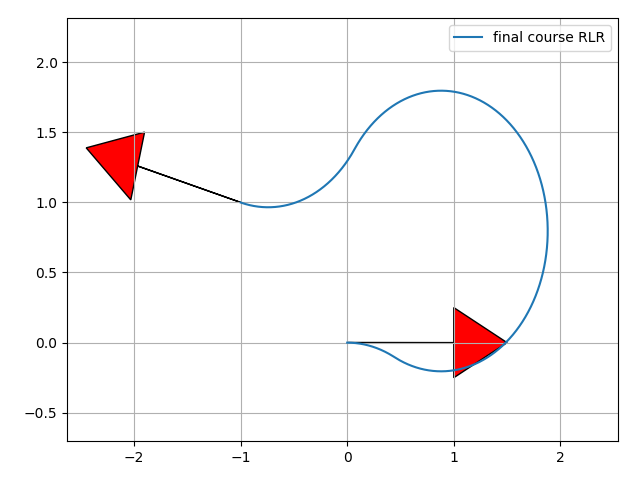
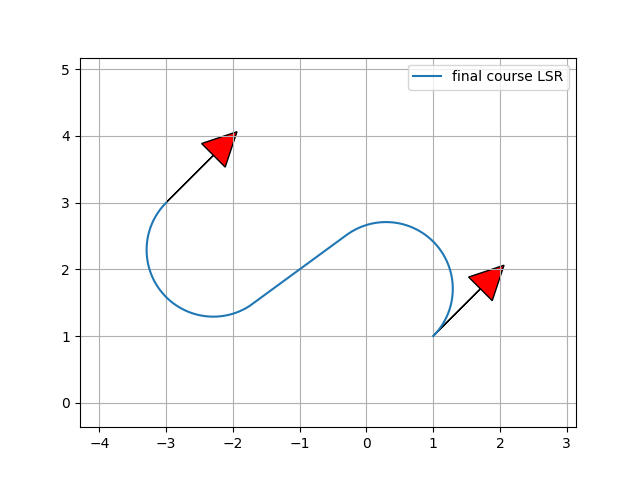
fix README

diff --git a/README.md b/README.md
@@ -26,7 +26,7 @@ A sample code for Dubins path planning.
 
 [Dubins path - Wikipedia](https://en.wikipedia.org/wiki/Dubins_path)
 
-![PythonRobotics/figure_1.png at master · AtsushiSakai/PythonRobotics](https://github.com/AtsushiSakai/PythonRobotics/blob/master/scripts/PathPlanning/DubinsPath/figures/figure_15.png)
+![PythonRobotics/figure_1.png at master · AtsushiSakai/PythonRobotics](https://github.com/AtsushiSakai/PythonRobotics/blob/master/scripts/PathPlanning/DubinsPath/figures/figure_1.png)
 ![PythonRobotics/figure_1.png at master · AtsushiSakai/PythonRobotics](https://github.com/AtsushiSakai/PythonRobotics/blob/master/scripts/PathPlanning/DubinsPath/figures/figure_13.png)
 
 